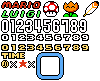
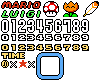
Add remaining HUD items
Add several methods to display numbers more easily
Fix coin bug wherein player does not collect coin upon prize block hit

Changed region(s): [[0.09, 0.2222, 0.9, 0.4198]]

diff --git a/Level.cpp b/Level.cpp
@@ -78,7 +78,12 @@ void Level::Tick(double deltaTime)
 	if (m_NewCoinPos != DOUBLE2())
 	{
 		// There is a coin we need to generate
-		m_LevelDataPtr->AddItem(new Coin(m_NewCoinPos, 15));
+		Coin* newCoin = new Coin(m_NewCoinPos, 15);
+		m_LevelDataPtr->AddItem(newCoin);
+
+		// TODO: Test that this works in all cases, it may 
+		//be slightly janky since the player isn't actually touching the coin
+		m_PlayerPtr->OnItemPickup(newCoin); 
 		m_NewCoinPos = DOUBLE2();
 	}
 	if (m_ItemToBeRemoved != nullptr)
@@ -166,29 +171,67 @@ void Level::PaintHUD()
 	GAME_ENGINE->DrawBitmap(SpriteSheetManager::hud, x, y, srcRect);
 
 	// LIVES
-	srcRect = GetSmallSingleNumberSrcRect(playerLives, false);
 	x += 30;
+	srcRect = GetSmallSingleNumberSrcRect(playerLives, false);
+	GAME_ENGINE->DrawBitmap(SpriteSheetManager::hud, x, y, srcRect);
+
+	// RED STAR
+	y -= 3;
+	x += 68;
+	srcRect = RECT2(19 * SCALE, 60 * SCALE, 19 * SCALE + 8 * SCALE, 60 * SCALE + 8 * SCALE);
+	GAME_ENGINE->DrawBitmap(SpriteSheetManager::hud, x, y, srcRect);
+
+	// X
+	x += 20;
+	y += 3;
+	srcRect = RECT2(10 * SCALE, 61 * SCALE, 10 * SCALE + 7 * SCALE, 61 * SCALE + 7 * SCALE);
+	GAME_ENGINE->DrawBitmap(SpriteSheetManager::hud, x, y, srcRect);
+
+	// NUMBER OF STARS
+	x += 42;
+	y -= 15;
+	PaintSeveralDigitLargeNumber(x, y, playerStars);
+
+	// ITEM BOX
+	x += 20;
+	y -= 15;
+	srcRect = RECT2(36 * SCALE, 52 * SCALE, 36 * SCALE + 28 * SCALE, 52 * SCALE + 28 * SCALE);
 	GAME_ENGINE->DrawBitmap(SpriteSheetManager::hud, x, y, srcRect);
 
 	// TIME
-	x += 100;
+	x += 72;
 	y = 30;
 	srcRect = RECT2(1 * SCALE, 52 * SCALE, 1 * SCALE + 24 * SCALE, 52 * SCALE + 7 * SCALE);
 	GAME_ENGINE->DrawBitmap(SpriteSheetManager::hud, x, y, srcRect);
 
 	// TIME VALUE
-	y += 18;
+	y += 17;
+	x += 32;
 	PaintSeveralDigitNumber(x, y, timeRemaining, true);
+
+	// COIN LABEL
+	x += 66;
+	y = 30;
+	srcRect = RECT2(1 * SCALE, 60 * SCALE, 1 * SCALE + 16 * SCALE, 60 * SCALE + 8 * SCALE);
+	GAME_ENGINE->DrawBitmap(SpriteSheetManager::hud, x, y, srcRect);
+
+	// COINS
+	x += 60;
+	PaintSeveralDigitNumber(x, y, playerCoins, false);
+
+	// SCORE
+	y += 17;
+	PaintSeveralDigitNumber(x, y, playerScore, false);
 }
 
 // TODO: Move all SCALE references to one global constant in Game.h
 // TODO: Just set a world matrix to print these instead of passing numbers
+// NOTE: The x coordinate specifies the placement of the right-most digit
 void Level::PaintSeveralDigitNumber(int x, int y, int number, bool yellow)
 {
 	int SCALE = 2;
 
 	number = abs(number);
-	x += (GetNumberOfDigits(number) - 1) * 8 * SCALE;
 
 	do {
 		int digit = number % 10;
@@ -200,15 +243,17 @@ void Level::PaintSeveralDigitNumber(int x, int y, int number, bool yellow)
 	} while (number > 0);
 }
 
+// TODO: Move to a more global class (custom math class?)
 unsigned int Level::GetNumberOfDigits(unsigned int i)
 {
 	return i > 0 ? (int)log10((double)i) + 1 : 1;
 }
 
 // NOTE: If yellow is true, this returns the rect for a yellow number, otherwise for a white number
+// TODO: Fix slight issue with bitmap (6 appears to close to the left of the number next to it)
 RECT2 Level::GetSmallSingleNumberSrcRect(int number, bool yellow)
 {
-	assert (number >= 0 && number <= 9);
+	assert(number >= 0 && number <= 9);
 
 	RECT2 result;
 
@@ -220,6 +265,40 @@ RECT2 Level::GetSmallSingleNumberSrcRect(int number, bool yellow)
 	int yo = 34 * SCALE;
 
 	if (yellow) yo += 10 * SCALE;
+
+	result = RECT2(xo, yo, xo + numberWidth, yo + numberHeight);
+
+	return result;
+}
+
+void Level::PaintSeveralDigitLargeNumber(int x, int y, int number)
+{
+	int SCALE = 2;
+
+	number = abs(number);
+
+	do {
+		int digit = number % 10;
+		RECT2 srcRect = GetLargeSingleNumberSrcRect(digit);
+		GAME_ENGINE->DrawBitmap(SpriteSheetManager::hud, x, y, srcRect);
+
+		x -= 8 * SCALE;
+		number /= 10;
+	} while (number > 0);
+}
+
+RECT2 Level::GetLargeSingleNumberSrcRect(int number)
+{
+	assert(number >= 0 && number <= 9);
+
+	RECT2 result;
+
+	const int SCALE = 2;
+
+	int numberWidth = 9 * SCALE;
+	int numberHeight = 14 * SCALE;
+	int xo = 0 + numberWidth * number;
+	int yo = 19 * SCALE;
 
 	result = RECT2(xo, yo, xo + numberWidth, yo + numberHeight);
 

diff --git a/Player.cpp b/Player.cpp
@@ -37,7 +37,7 @@ void Player::Reset()
 	m_Score = 0;
 	m_Coins = 0;
 	m_Lives = 5;
-	m_Stars = 0;
+	m_Stars = 15;
 	m_DragonCoins = 0;
 }
 
@@ -361,12 +361,12 @@ void Player::OnItemPickup(Item* item)
 	{
 	case Item::TYPE::COIN:
 	{
-		m_Coins++;
+		AddCoin();
 		m_Score += 10;
 	} break;
 	case Item::TYPE::DRAGON_COIN:
 	{
-		m_DragonCoins++;
+		AddDragonCoin();
 		m_Score += 2000; // NOTE: Not quite perfectly accurate, but enough for now
 	} break;
 	case Item::TYPE::SUPER_MUSHROOM:
@@ -386,6 +386,38 @@ void Player::OnItemPickup(Item* item)
 		OutputDebugString(String("ERROR: Unhandled item passed to Player::OnItemPickup\n"));
 	} break;
 	}
+}
+
+void Player::AddCoin(bool playSound)
+{
+	m_Coins++;
+	
+	if (m_Coins > 99)
+	{
+		m_Coins = 0;
+		AddLife();
+		// LATER: Play sound here
+	}
+}
+
+void Player::AddDragonCoin()
+{
+	AddCoin(false);
+	m_DragonCoins++;
+
+	// LATER:: Play sound here
+
+	if (m_DragonCoins >= 5)
+	{
+		m_DragonCoins = 0;
+		AddLife();
+	}
+}
+
+void Player::AddLife()
+{
+	m_Lives++;
+	// LATER: Play sound here
 }
 
 bool Player::IsOnGround()

diff --git a/Level.h b/Level.h
@@ -41,7 +41,9 @@ private:
 	void PaintHUD();
 	unsigned int GetNumberOfDigits(unsigned int i);
 	void PaintSeveralDigitNumber(int x, int y, int number, bool yellow);
+	void PaintSeveralDigitLargeNumber(int x, int y, int number);
 	RECT2 GetSmallSingleNumberSrcRect(int number, bool yellow);
+	RECT2 GetLargeSingleNumberSrcRect(int number);
 
 	void ReadLevelData(int levelIndex);
 	LevelData* m_LevelDataPtr = nullptr;

diff --git a/Player.h b/Player.h
@@ -73,6 +73,10 @@ private:
 	int m_Stars;
 	int m_Score;
 
+	void AddCoin(bool playSound = true);
+	void AddDragonCoin();
+	void AddLife();
+
 	Item* m_ExtraItemPtr = nullptr; // This is the extra item slot mario has at the top of the screen
 
 	String AnimationStateToString(ANIMATION_STATE state);
